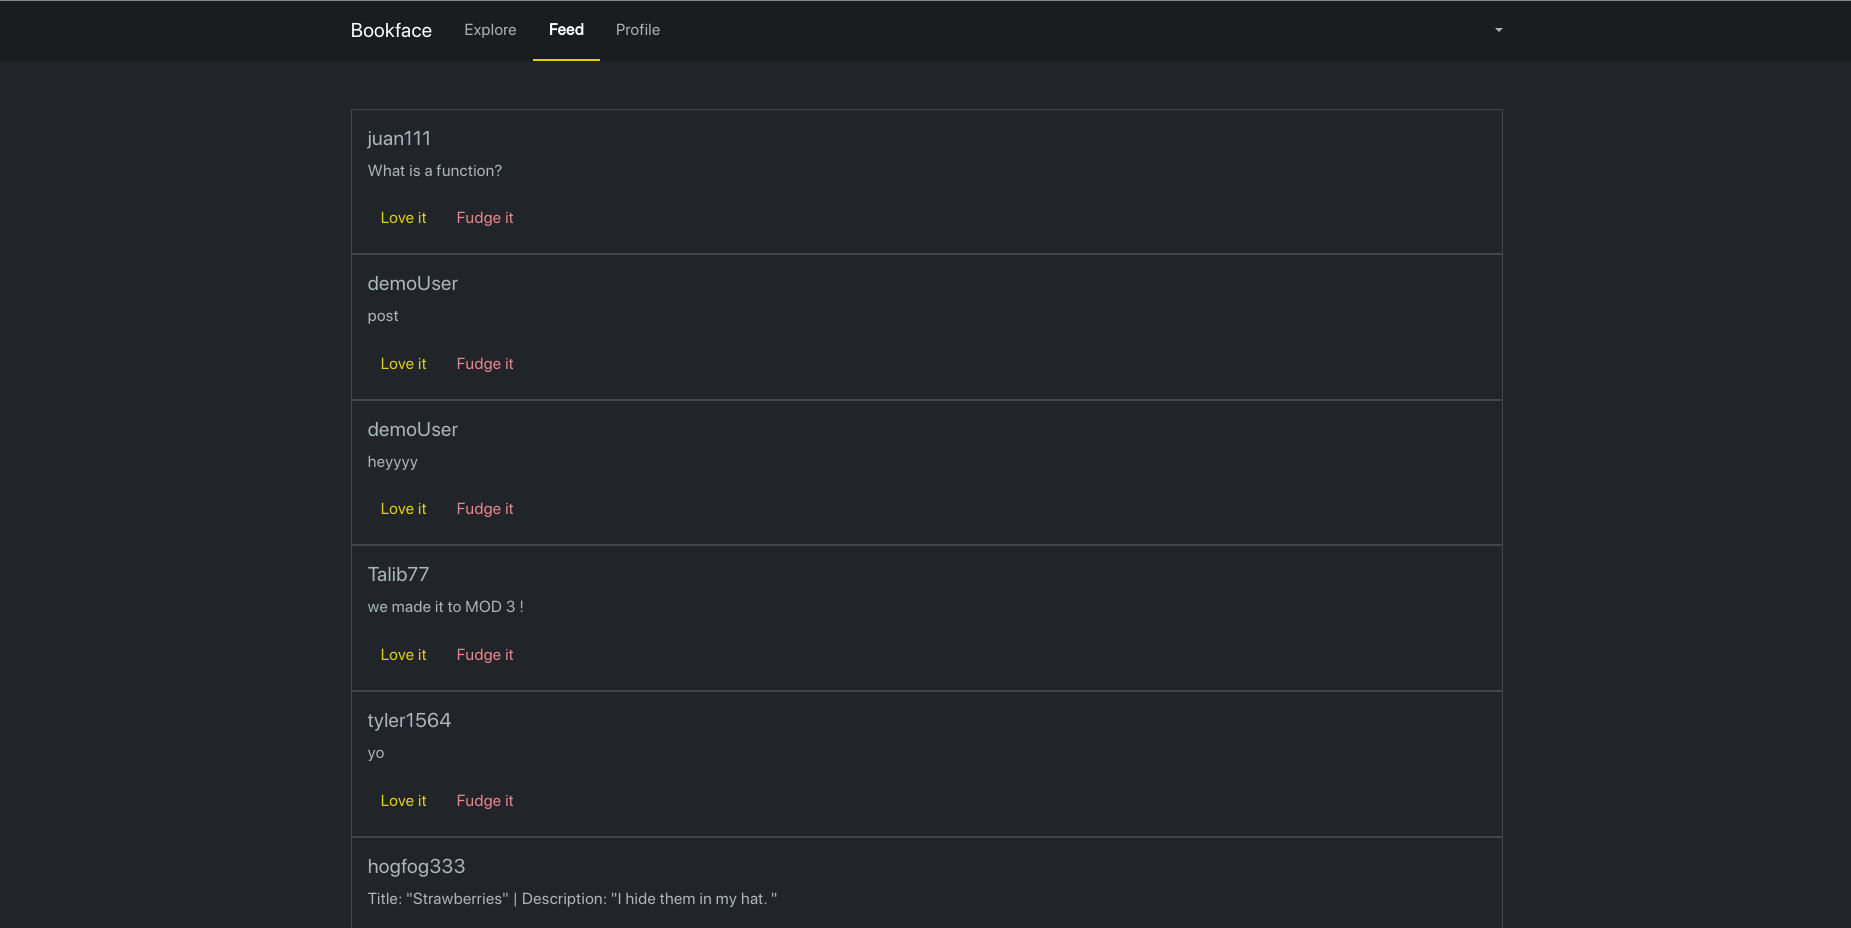
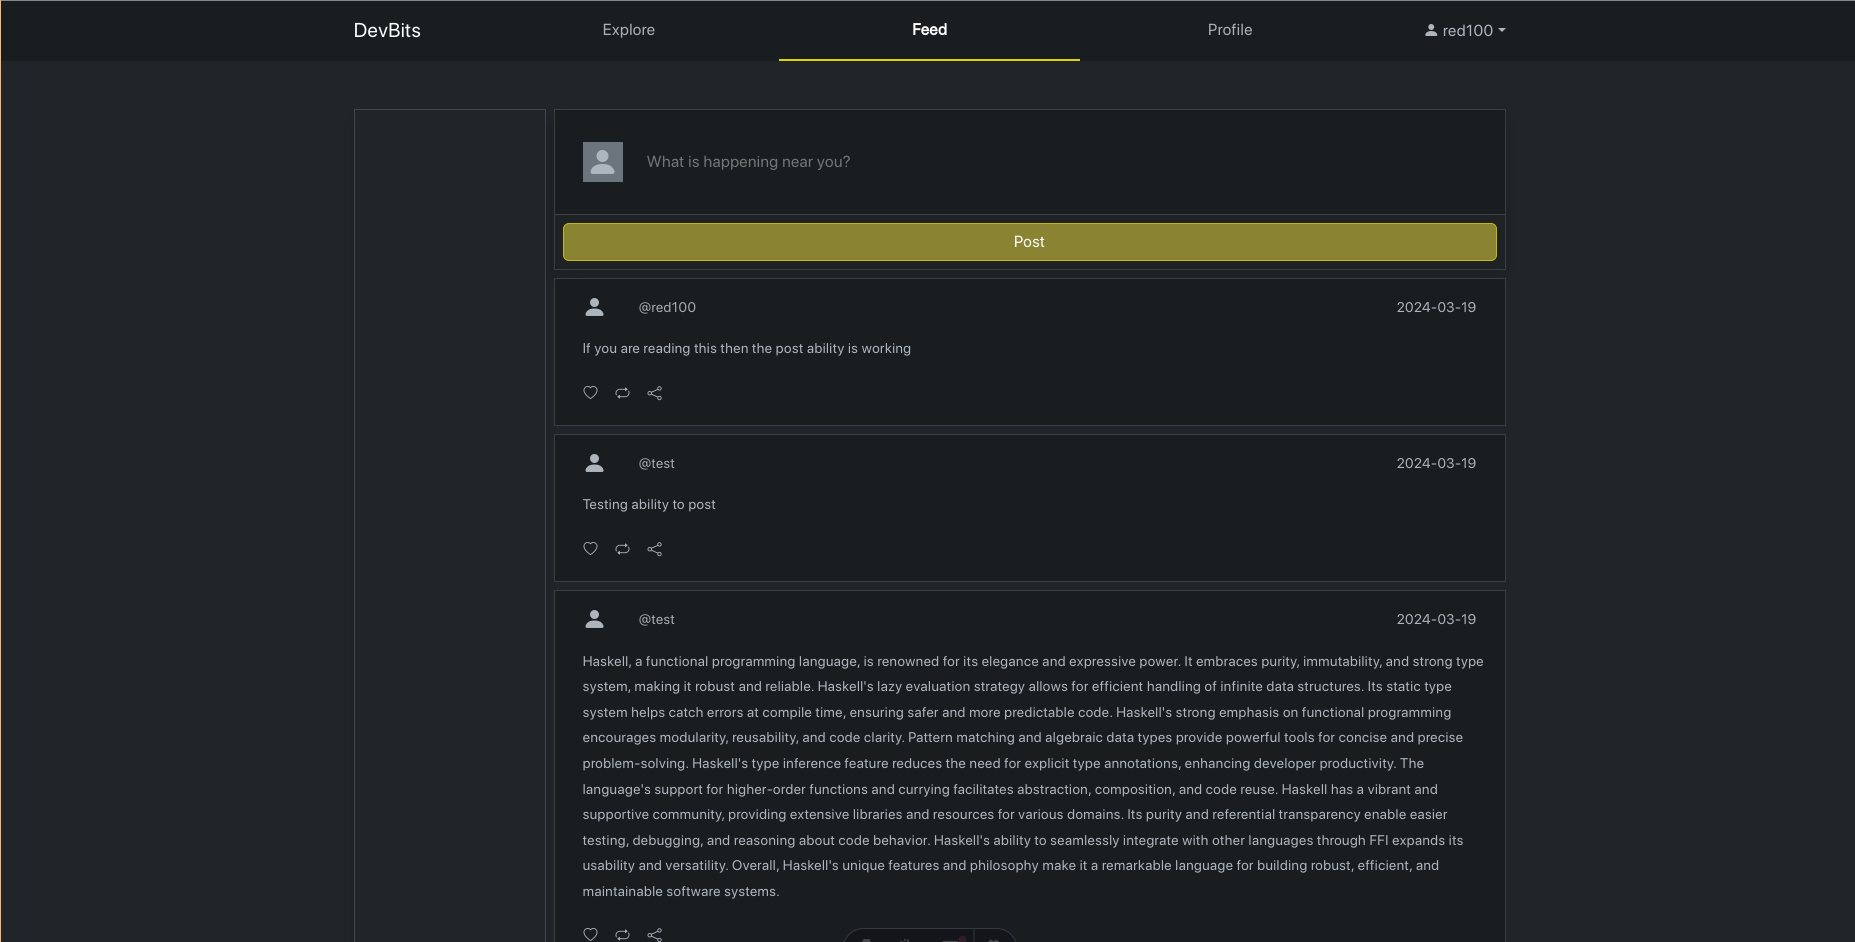
named bookface to DevBits and also updated readme screenshots

diff --git a/README.md b/README.md
@@ -1,17 +1,21 @@
-# Bookface
+# DevBits
 
-> Currently in the process of to react+astro components
+> Currently in the process of porting all aspects of the page to react+astro components [Track Progress Here](https://github.com/users/JonCGroberg/projects/9)
 
-Welcome to Bookface, your go-to social media platform designed exclusively for web developers. Connect, share, and explore the world of coding with like-minded individuals. Whether you're a seasoned developer or just starting your coding journey, Bookface is the place to be.
+Welcome to DevBits, your go-to social media platform designed exclusively for web developers. Connect, share, and explore the world of coding with like-minded individuals. Whether you're a seasoned developer or just starting your coding journey, DevBits is the place to be.
 
-> Created by: [Jonathan Groberg](https://github.com/joncgroberg)
-> , [Armanie Feliciano](https://github.com/MrRobut98), and [Xabier Jones](https://github.com/l3tsgititzay)
+Created by: [Jonathan Groberg](https://github.com/joncgroberg)
+, [Armanie Feliciano](https://github.com/MrRobut98), and [Xabier Jones](https://github.com/l3tsgititzay)
+
+> **Try the [live site](https://devbits-frontend.netlify.app/)!**
+>
+> Create your own user or **login** with as `test` with **password**: `test`
 
 ### Links
 
-> [Bookface API docs](http://microbloglite.us-east-2.elasticbeanstalk.com/docs/)
+[DevBits API docs](http://microbloglite.us-east-2.elasticbeanstalk.com/docs/)
 
-> [Bookface Wiki](https://github.com/JonCGroberg/microbloglite-capstone-starter/wiki/)
+[DevBits Wiki](https://github.com/JonCGroberg/microbloglite-capstone-starter/wiki/)
 
 ## Landing page
 
@@ -56,36 +60,39 @@ Welcome to Bookface, your go-to social media platform designed exclusively for w
 
 ## Notable features and code snippets
 
-### Returning promises for more readable and logical code
+`Feed.jsx` Component
 
- `landing.js/loginhandler` Demonstration
-
+Allows the feed component to decided how many posts to show, from who to show, and how many placeholders to show(while loading)
 
 ```javascript
-// loads until a successfull login or failed login
-setLoadingState();
-login(loginData).then(successRedirect).catch(setFailureState);
+function Feed({ users = "all", limit = 10 }) {
+	const [posts, setPosts] = useState([<LoadingFeedTemplate amount={10} />]);
+	//...
+	//...
+}
 ```
+
 `Auth.js/login` Implementation
 
 Returns a promise allowing failure and success logic to be handled uniquely on a page by page basis. Additionally allows for more clean and readable code
 
-
 ```javascript
 // Saves login data if success and throws an error otherwise
 return await fetch(API_URL + "/auth/login", options)
-  .then((res) => res.json())
-  .then((userData) => {
-    if (userData.statusCode === 200) storeLocalUserData(userData, loginData);
-    else throw new Error("Login failed with code: " + userData.statusCode);
-  });
+	.then((res) => res.json())
+	.then((userData) => {
+		if (userData.statusCode === 200) storeLocalUserData(userData, loginData);
+		else throw new Error("Login failed with code: " + userData.statusCode);
+	});
 ```
 
 ## Structure
 
-The project is organized into several directories, each containing the HTML, CSS, and JavaScript files for a specific feature of the application:
+The project is organized into several directories, each containing the Astro, React, CSS, and Javascript files for a specific feature of the application:
 
-- `landing/`: Contains the files for the landing page of the application.
-- `registration/`: Contains the files for the user registration feature.
-- `profile/`: Contains the files for the user profile feature.
-- `posts/`: Contains the files for the posts feature.
+- `components/`: Contains all react components as js and astro files, `.jsx` and `.astro` respectively
+- `js/`: Contains a few js scripts yet to be ported to react
+- `layouts/`: Contains the general page layout as a `.astro` file used by pages.
+- `pages/`: Contains all pages as `.astro` files
+- `styles/`: Contains all `.css` used in the page.
+- `utils/`: common utilility functions (for auth.js)
